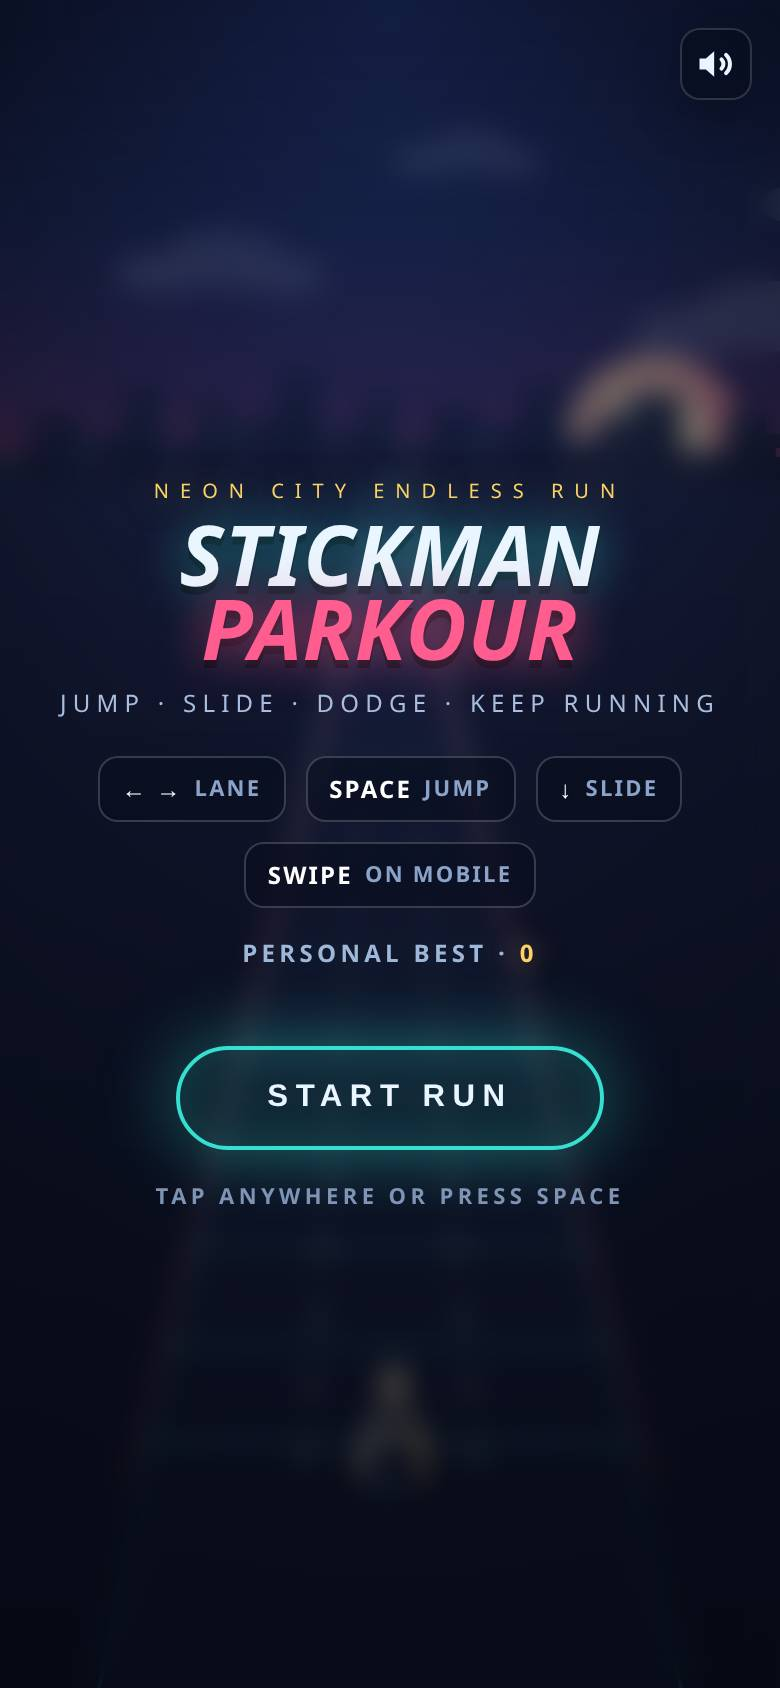
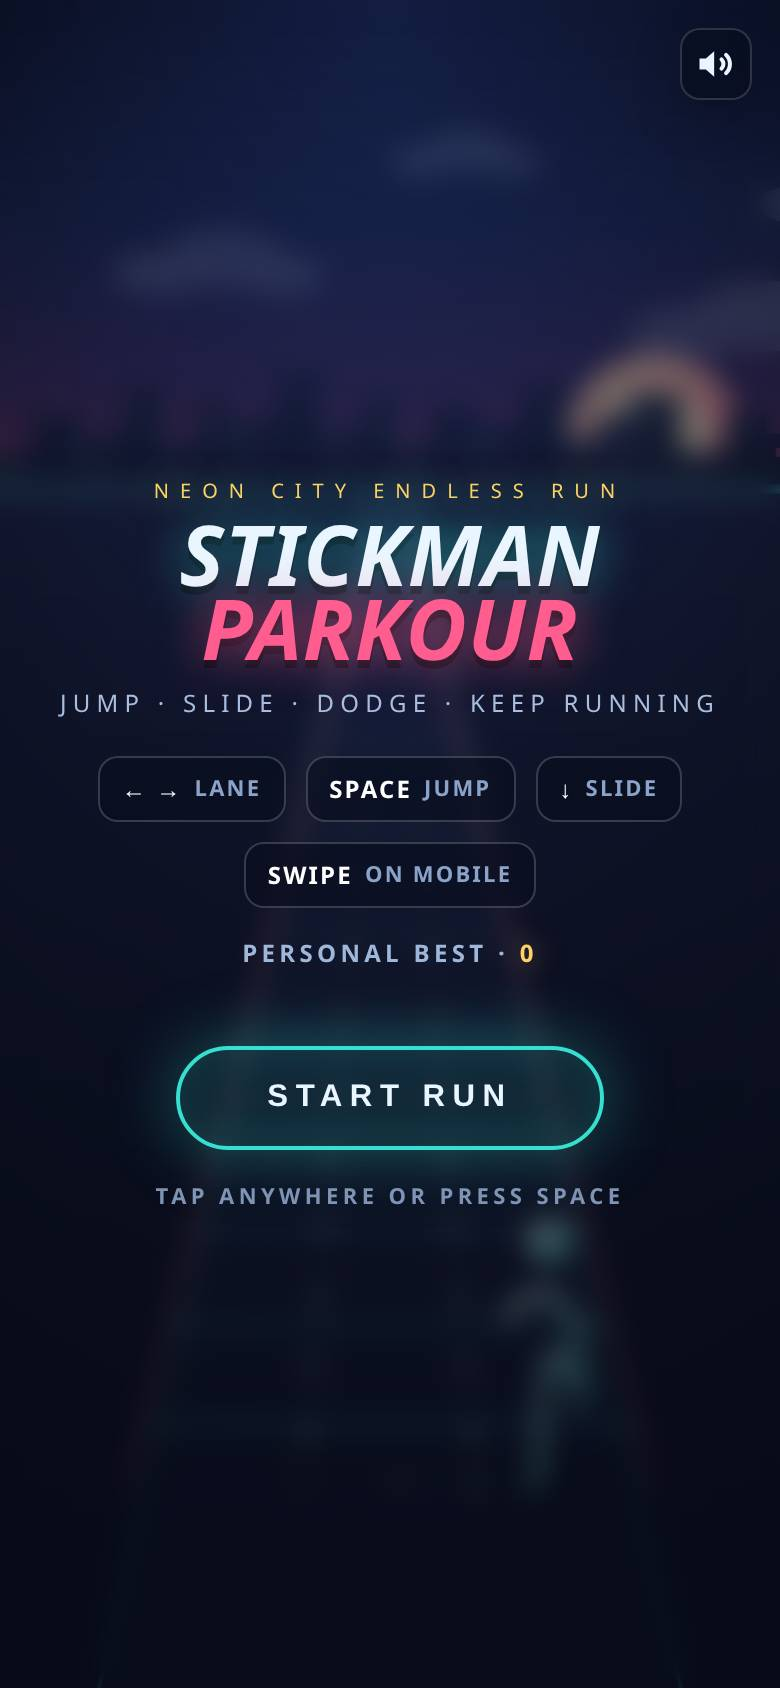
Cache static fullscreen gradients; vignette becomes CSS overlay
The game re-created and rasterized ~6 fullscreen gradients every frame
(sky, ground, road, horizon glow, vignette) plus a clearRect. Measured in
a software-rendered shell: a gradient-only canvas runs at 23fps (blank
rAF 60), and the full game at 12fps@1440x900x2dpr / ~30-36fps mobile.

- static backdrop (sky/ground/road/glow/curbs) rasterized once per resize
  into an offscreen canvas; per frame is a single drawImage blit
- vignette moved to a composited CSS overlay (#vignette)
- sky layers (stars/sun/clouds/skyline) clipped to the above-horizon
  band so the sun/skyline overhang cannot bleed over the road (caught in
  review; the old ground fill used to hide it)

Verified: npm test fps floors green (mobile 57.3, desktop 21 -> 23.6/60.4
after clip), 22/25 checks green (3 remaining are the queued touch/swipe
fixes), pixel parity probes on both viewports incl. overhang band, no
console errors.

Changed region(s): [[0.6462, 0.7085, 0.7692, 0.8318], [0.4615, 0.8009, 0.5538, 0.8626]]

diff --git a/js/game.js b/js/game.js
@@ -110,6 +110,79 @@
       this.jumpDuration = 0.62;
       this.gravity = (2 * this.maxJumpY) / ((this.jumpDuration / 2) ** 2);
       this.jumpVelocity = Math.sqrt(2 * this.gravity * this.maxJumpY);
+      this.bgDirty = true;
+    }
+
+    // The static background (sky/ground gradients, road surface, horizon glow,
+    // curbs) never changes between resizes, so it is rasterized once into an
+    // offscreen canvas instead of being re-filled with fullscreen gradients
+    // every frame — the single biggest per-frame cost in this game.
+    ensureBackdrop() {
+      if (!this.bgDirty) return;
+      if (!this.bg) this.bg = document.createElement('canvas');
+      this.bg.width = this.canvas.width;
+      this.bg.height = this.canvas.height;
+      const b = this.bg.getContext('2d');
+      const dpr = this.canvas.width / this.w;
+      b.setTransform(dpr, 0, 0, dpr, 0, 0);
+
+      // sky
+      const sky = b.createLinearGradient(0, 0, 0, this.horizon + 4);
+      sky.addColorStop(0, '#050714');
+      sky.addColorStop(0.45, '#131b3d');
+      sky.addColorStop(0.8, '#3a2454');
+      sky.addColorStop(1, '#7a2f55');
+      b.fillStyle = sky;
+      b.fillRect(0, 0, this.w, this.horizon + 4);
+
+      // ground
+      const ground = b.createLinearGradient(0, this.horizon, 0, this.h);
+      ground.addColorStop(0, '#191c3a');
+      ground.addColorStop(0.45, '#10142a');
+      ground.addColorStop(1, '#080b18');
+      b.fillStyle = ground;
+      b.fillRect(0, this.horizon, this.w, this.h - this.horizon);
+
+      // road slab
+      const halfTop = this.laneHalf * 1.52 * 0.055;
+      const halfBottom = this.laneHalf * 1.52 * 1.16;
+      const yBottom = this.h + 40;
+      b.beginPath();
+      b.moveTo(this.cx - halfTop, this.horizon);
+      b.lineTo(this.cx - halfBottom, yBottom);
+      b.lineTo(this.cx + halfBottom, yBottom);
+      b.lineTo(this.cx + halfTop, this.horizon);
+      b.closePath();
+      const road = b.createLinearGradient(0, this.horizon, 0, yBottom);
+      road.addColorStop(0, '#20264c');
+      road.addColorStop(0.3, '#181d3c');
+      road.addColorStop(1, '#0d1126');
+      b.fillStyle = road;
+      b.fill();
+      b.strokeStyle = 'rgba(77,243,224,0.5)';
+      b.lineWidth = 2;
+      b.stroke();
+
+      // neon horizon line
+      const g = b.createLinearGradient(0, this.horizon, 0, this.horizon + 8);
+      g.addColorStop(0, 'rgba(77,243,224,0.05)');
+      g.addColorStop(0.5, 'rgba(77,243,224,0.55)');
+      g.addColorStop(1, 'rgba(77,243,224,0.05)');
+      b.fillStyle = g;
+      b.fillRect(0, this.horizon - 1, this.w, 7);
+
+      // curbs
+      b.strokeStyle = 'rgba(255,93,143,0.75)';
+      b.lineWidth = 2.5;
+      for (const side of [-1.52, 1.52]) {
+        const pNear = this.project(side, 0.5);
+        const pFar = this.project(side, ZFAR);
+        b.beginPath();
+        b.moveTo(pNear.x, pNear.y);
+        b.lineTo(pFar.x, pFar.y);
+        b.stroke();
+      }
+      this.bgDirty = false;
     }
 
     startLoop() {
@@ -885,20 +958,31 @@
     // ----------------------------------------------------------------- render
     render() {
       const ctx = this.ctx;
+      this.ensureBackdrop();
       ctx.clearRect(0, 0, this.w, this.h);
       ctx.save();
       if (this.shake > 0) {
         ctx.translate(rand(-1, 1) * this.shake * 12, rand(-1, 1) * this.shake * 9);
       }
-      this.drawSky(ctx);
+      // one blit for all static fullscreen gradients
+      ctx.drawImage(this.bg, 0, 0, this.w, this.h);
+      // sky layers are clipped to the above-horizon band: sun and skyline
+      // sprites overhang the horizon, and the ground must cover them (the
+      // backdrop already paints the ground, so clip instead of re-filling)
+      ctx.save();
+      ctx.beginPath();
+      ctx.rect(0, 0, this.w, this.horizon + 1);
+      ctx.clip();
+      this.drawStars(ctx);
+      this.drawSunClouds(ctx);
       this.drawSkyline(ctx);
-      this.drawRoad(ctx);
+      ctx.restore();
+      this.drawRoadMarks(ctx);
       this.drawPigeons(ctx);
       this.drawWorld(ctx);
       this.drawPlayer(ctx);
       this.drawParticles(ctx);
       this.drawPopups(ctx);
-      this.drawVignette(ctx);
       if (this.flash > 0) {
         ctx.fillStyle = `rgba(255, 230, 180, ${this.flash * 0.25})`;
         ctx.fillRect(-20, -20, this.w + 40, this.h + 40);
@@ -906,16 +990,7 @@
       ctx.restore();
     }
 
-    drawSky(ctx) {
-      const g = ctx.createLinearGradient(0, 0, 0, this.horizon + 4);
-      g.addColorStop(0, '#050714');
-      g.addColorStop(0.45, '#131b3d');
-      g.addColorStop(0.8, '#3a2454');
-      g.addColorStop(1, '#7a2f55');
-      ctx.fillStyle = g;
-      ctx.fillRect(0, 0, this.w, this.horizon + 4);
-
-      // stars
+    drawStars(ctx) {
       ctx.fillStyle = 'rgba(234,246,255,0.8)';
       for (let i = 0; i < 26; i++) {
         const sx = ((i * 97 + 31) % 1000) / 1000 * this.w;
@@ -925,7 +1000,9 @@
         ctx.fillRect(sx, sy, 1.6, 1.6);
       }
       ctx.globalAlpha = 1;
+    }
 
+    drawSunClouds(ctx) {
       const sun = global.Assets.get(this.defs, 'sun');
       if (sun) {
         const sw = Math.min(this.w * 0.4, this.h * 0.34);
@@ -950,45 +1027,10 @@
       ctx.globalAlpha = 0.95;
       ctx.drawImage(img, 0, this.horizon - h * 0.78, w, h);
       ctx.globalAlpha = 1;
-      // Neon horizon line
-      const g = ctx.createLinearGradient(0, this.horizon, 0, this.horizon + 8);
-      g.addColorStop(0, 'rgba(77,243,224,0.05)');
-      g.addColorStop(0.5, 'rgba(77,243,224,0.55)');
-      g.addColorStop(1, 'rgba(77,243,224,0.05)');
-      ctx.fillStyle = g;
-      ctx.fillRect(0, this.horizon - 1, this.w, 7);
     }
 
-    drawRoad(ctx) {
-      const ground = ctx.createLinearGradient(0, this.horizon, 0, this.h);
-      ground.addColorStop(0, '#191c3a');
-      ground.addColorStop(0.45, '#10142a');
-      ground.addColorStop(1, '#080b18');
-      ctx.fillStyle = ground;
-      ctx.fillRect(0, this.horizon, this.w, this.h - this.horizon);
-
-      const halfTop = this.laneHalf * 1.52 * 0.055;
-      const halfBottom = this.laneHalf * 1.52 * 1.16;
-      const yTop = this.horizon;
-      const yBottom = this.h + 40;
-
-      ctx.beginPath();
-      ctx.moveTo(this.cx - halfTop, yTop);
-      ctx.lineTo(this.cx - halfBottom, yBottom);
-      ctx.lineTo(this.cx + halfBottom, yBottom);
-      ctx.lineTo(this.cx + halfTop, yTop);
-      ctx.closePath();
-      const road = ctx.createLinearGradient(0, yTop, 0, yBottom);
-      road.addColorStop(0, '#20264c');
-      road.addColorStop(0.3, '#181d3c');
-      road.addColorStop(1, '#0d1126');
-      ctx.fillStyle = road;
-      ctx.fill();
-      ctx.strokeStyle = 'rgba(77,243,224,0.5)';
-      ctx.lineWidth = 2;
-      ctx.stroke();
-
-      // horizontal speed stripes
+    drawRoadMarks(ctx) {
+      // horizontal speed stripes (scrolling)
       const spacing = 8;
       const scroll = this.worldOffset % spacing;
       ctx.lineCap = 'round';
@@ -1005,7 +1047,7 @@
         ctx.stroke();
       }
 
-      // lane separators
+      // lane separators (scrolling)
       const boundaries = [-0.5, 0.5];
       ctx.lineCap = 'butt';
       for (const b of boundaries) {
@@ -1022,18 +1064,6 @@
           ctx.lineTo(p2.x, p2.y);
           ctx.stroke();
         }
-      }
-
-      // curbs
-      for (const side of [-1.52, 1.52]) {
-        const pNear = this.project(side, 0.5);
-        const pFar = this.project(side, ZFAR);
-        ctx.strokeStyle = 'rgba(255,93,143,0.75)';
-        ctx.lineWidth = 2.5;
-        ctx.beginPath();
-        ctx.moveTo(pNear.x, pNear.y);
-        ctx.lineTo(pFar.x, pFar.y);
-        ctx.stroke();
       }
     }
 
@@ -1216,13 +1246,6 @@
       ctx.globalAlpha = 1;
     }
 
-    drawVignette(ctx) {
-      const g = ctx.createRadialGradient(this.cx, this.h * 0.5, this.h * 0.25, this.cx, this.h * 0.5, this.h * 0.85);
-      g.addColorStop(0, 'rgba(0,0,0,0)');
-      g.addColorStop(1, 'rgba(2,4,12,0.42)');
-      ctx.fillStyle = g;
-      ctx.fillRect(0, 0, this.w, this.h);
-    }
   }
 
   global.Game = Game;

diff --git a/css/style.css b/css/style.css
@@ -42,6 +42,14 @@ body {
   display: block;
   background: #0b1020;
 }
+/* Vignette as a composited CSS layer — replaces a per-frame fullscreen
+   canvas radial-gradient fill (was the most expensive render op). */
+#vignette {
+  position: absolute;
+  inset: 0;
+  pointer-events: none;
+  background: radial-gradient(ellipse 130% 170% at 50% 50%, rgba(2,4,12,0) 42%, rgba(2,4,12,0.42) 100%);
+}
 
 /* ------------------------------------------------------------------------- */
 /* HUD                                                                        */

diff --git a/index.html b/index.html
@@ -13,6 +13,7 @@
 <body>
   <div id="game">
     <canvas id="gameCanvas" aria-label="Stickman Parkour game canvas"></canvas>
+    <div id="vignette" aria-hidden="true"></div>
 
     <!-- In-game HUD -->
     <div id="hud" aria-hidden="false">

diff --git a/notes.md b/notes.md
@@ -142,3 +142,13 @@
 **Fix.** Dedicated `restart` action (`js/game.js` `input()`: restarts from running/paused/gameover) and `js/main.js` binds `pauseRestartButton` to it. Keyboard resume paths (Esc/P toggle, Space/Enter-while-paused) are untouched.
 
 **Verification (Playwright).** Suite check `pause Restart starts a fresh run` green (state `running`, distance < 10m). Dedicated probe: Esc→pause→Esc→resume ✓, Space-while-paused resumes ✓, Restart from pause → distance 2.1m, difficulty 0, obstacles cleared, overlay hidden ✓, zero page errors. Evidence: `evidence/fix2-pause-restart-fresh-run.jpg`.
+
+## Dev log — Fix pass 9 (top-5 #3): cache static fullscreen gradients
+
+**Problem (measured).** ~6 fullscreen gradient fills were created and rasterized every frame (sky, ground, road, horizon glow, vignette + clearRect). Gradient-only canvas baseline in the same shell: 23fps (blank rAF: 60). Full game: 12fps @1440×900×2dpr, ~30–36fps @390×844×2dpr — the dominant per-frame cost, and a realistic low-end-GPU preview.
+
+**Fix.** Static background (sky gradient, ground gradient, road slab, neon horizon line, curbs) is now rasterized once per resize into an offscreen canvas (`ensureBackdrop`, rebuilt on `bgDirty`); each frame is a single `drawImage` blit (which also covers the whole frame, so `clearRect` is gone). Vignette moved to a composited CSS overlay (`#vignette`), replacing the most expensive canvas op. Dynamic layers (stars, sun, clouds, skyline, scrolling stripes/separators, sprites, particles) unchanged.
+
+**Verification (Playwright).** FPS: mobile 36→**57.3** (+59%, suite floor 45 now green), desktop 12→**21** (+75%, floor 20 green) in the software-rendered shell; smoke green on all 5 viewports, no console errors. Pixel parity probes: sky sample [6,8,23] vs #050714, road [14,18,41] vs #0d1126, skyline/ground samples in family, backdrop cache confirmed (`bg` exists, `bgDirty=false` after first frame), CSS vignette present (corner luminance 10.0 vs center 30.6). Evidence: `evidence/fix3-cached-backdrop.jpg`.
+
+**Post-review correction (blocker caught by reviewer pass).** The first version of this fix regressed the horizon band: the old code's opaque ground fill used to hide the sun/skyline overhang below the horizon, and the blitted backdrop lost that cover (sun bottom + building bases visibly overlapped the road). Fixed by clipping the dynamic sky layers (stars/sun/clouds/skyline) to the above-horizon band and restoring a single cheap `clearRect` for shake-edge parity. Re-verified with an overhang-band pixel probe: just-below-horizon samples now read road-top colors ([31,37,75] ≈ #20264c) on both 1440×900 and 390×844 — no sun/building bleed; FPS unchanged (desktop 23.6, mobile 60.4).
